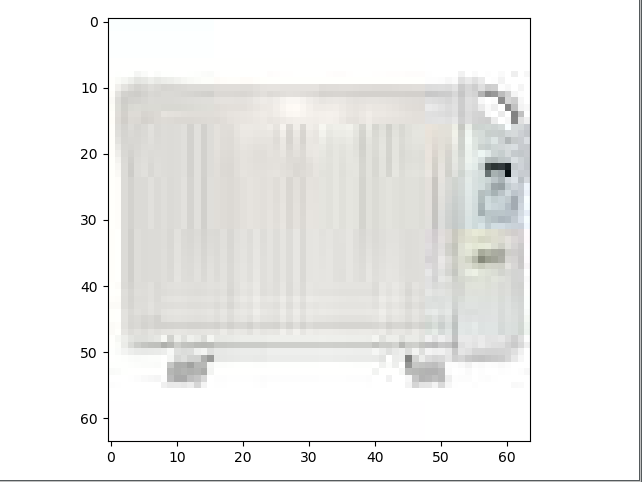
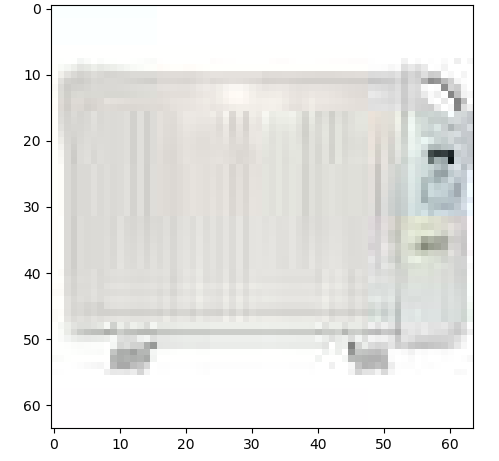
Fix image

diff --git a/README.md b/README.md
@@ -5,10 +5,10 @@ load_images.py              -- Loads images
 
 load_images_PIL.py          -- Loads images in PIL format
 
-visualize_image.py          -- Visualize a single image and its tag 
+visualize_image.py          -- Visualize a single image (resized) and its tag 
                                 (doesn't load all images)
 
-single_image.py             -- To return a single image and its tag
+single_image.py             -- To return a single resized image and its tag
 
 preimplemented_models.py    -- TODO: Use existing model weights
 </pre>
